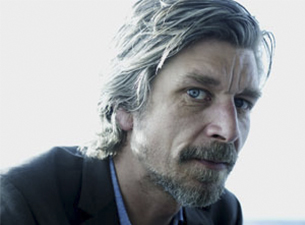
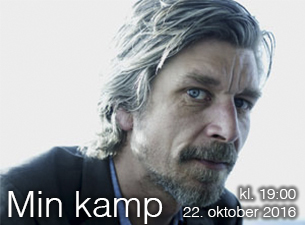
Oppretta minKamp. Og flytta lokal css for kent og minKamp til style.css

Changed region(s): [[0.5902, 0.8089, 1.0, 0.9956], [0.2361, 0.84, 0.5311, 0.9956], [0.0, 0.84, 0.2066, 0.9644]]

diff --git a/minKamp.html b/minKamp.html
@@ -1,0 +1,46 @@
+<!DOCTYPE html>
+<html>
+    <head>
+    <meta charset="utf-8">
+    <meta name="viewport" content="width=device-width, initial-scale=1">
+    <link rel="stylesheet" type="text/css" href="css/style.css">
+
+<title>Min kamp</title>
+
+    <style>
+
+        #foot{
+            background-color: rgb(255, 255, 255);
+        }
+
+    </style>
+
+</head>
+<body>
+
+<div id="mainContainer">
+
+    <div id="head" class="headerTop">
+        <img src="img/finnLogo.png" class="finnLogo">
+    </div>
+
+    <div id="mainContent">
+        <img id="minKamp" src="img/minKamp.jpg" alt="Kent">
+
+        <div id="txtBox">
+            <p>Min kamp handler om hans eget liv, om den verden han vokste opp i, om familien, vennene, om alle valgene som gjorde ham til den han ble og er. Med sin ubønnhørlige trang til å forstå, og til å leve et anstendig og sant liv, setter Knausgård navn på en norsk nåtid som vi alle hører hjemme i. Han skriver så hudløst og åpenhjertig at vi alle føler oss truffet. Hans kamp blir vår kamp.</p>
+
+            <p class="eventPlace">Akersgata 38 <br> 0180 OSLO</p>
+
+            <div class="ticketBtnDiv">
+                <input class="ticketBtn" onclick="window.location='minKampAntallBill.html';" type="submit" value="Finn billetter">
+            </div>
+        </div>
+    </div>
+
+    <div id="foot"></div>
+
+</div>
+
+</body>
+</html>

diff --git a/kent.html b/kent.html
@@ -8,27 +8,9 @@
 <title>Kent</title>
 
     <style>
-        #kent{
-            width: 320px;
-        }
+
         #foot{
             background-color: rgb(255, 255, 255);
-        }
-        #txtBox{
-            margin-left: 15px;
-            margin-right: 15px;
-        }
-        .ticketBtn{
-            width: 150px;
-            font-size: 1em;
-            background-color: rgb(37, 120, 250);
-            color: rgb(255, 255, 255);
-        }
-        .ticketBtnDiv{
-            text-align: center;
-        }
-        .place{
-            font-size: 10px;
         }
 
     </style>
@@ -48,7 +30,7 @@
         <div id="txtBox">
             <p>Kent er et svensk Pop/Rock band. Bandet startet opp i 1990 med navnet Jones och Giftet, skiftet navn i 1992 til Havsänglar og til Kent i 1993. I 1995 kom debutalbumet Kent. Bandet har hatt en rekke radiohits, over 3 millioner platesalg og 21 Swedish Grammy Awards. Kent regnes som det mest populære bandet i Sverige og Skandinavia.</p>
 
-            <p class="place">Oslo Spektrum <br> Sonja Henies plass 2 <br> 0185 OSLO</p>
+            <p class="eventPlace">Oslo Spektrum <br> Sonja Henies plass 2 <br> 0185 OSLO</p>
 
             <div class="ticketBtnDiv">
                 <input class="ticketBtn" onclick="window.location='kentAntallBill.html';" type="submit" value="Finn billetter">

diff --git a/css/style.css b/css/style.css
@@ -95,7 +95,30 @@ p{
     }
 
 
-/*-----------------------------------------*/
+/*------------------Kent, Min kamp-----------------------*/
+#kent, #minKamp{
+    width: 320px;
+}
+
+#txtBox{
+    margin-left: 15px;
+    margin-right: 15px;
+}
+.ticketBtn{
+    width: 150px;
+    font-size: 1em;
+    background-color: rgb(37, 120, 250);
+    color: rgb(255, 255, 255);
+}
+.ticketBtnDiv{
+    text-align: center;
+}
+.eventPlace{
+    font-size: 10px;
+}
+/*------------------end Kent, Min kamp-----------------------*/
+
+
 /*-----------------------------------------*/
 /*-----------------------------------------*/
 /*-----------------------------------------*/
